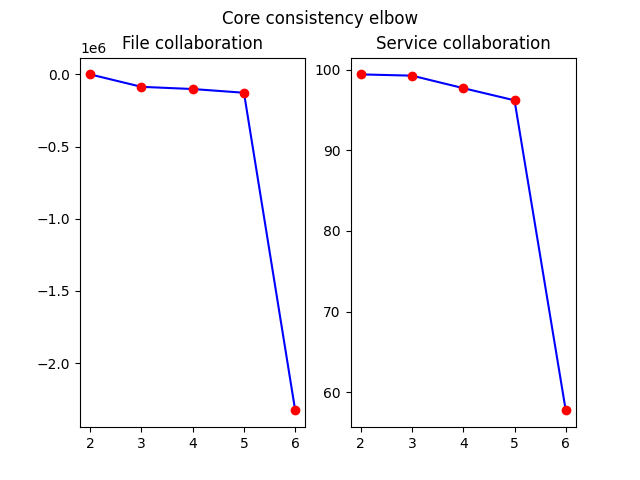
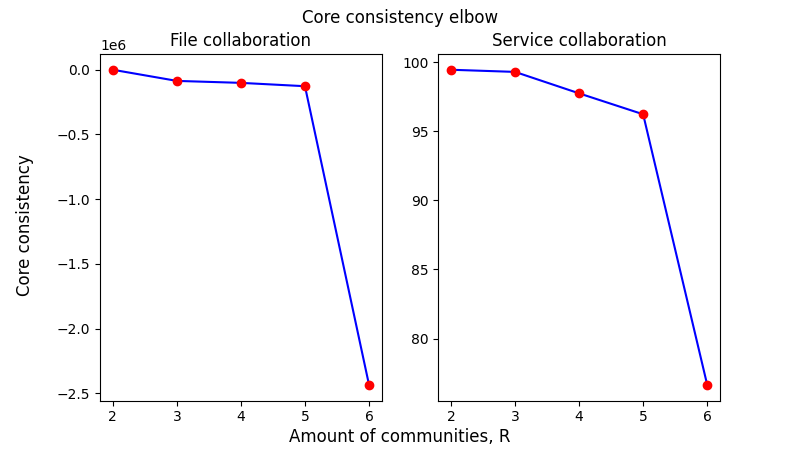
add: customize core consistency elbow

diff --git a/choice_of_R.py b/choice_of_R.py
@@ -28,7 +28,7 @@ with open(f"core_consistency_file_network_ncomm_max_{N_COMM_MAX}.json", 'w') as 
 with open(f"core_consistency_service_network_ncomm_max_{N_COMM_MAX}.json", 'w') as f:
     json.dump(cc_service_net, f)
 
-plt.figure()
+fig, axes = plt.subplots(1,2, sharex=True, figsize=(8,4.5))
 plt.subplot(121)
 plt.plot(cc_file_net.keys(), cc_file_net.values(), 'b-')
 plt.plot(cc_file_net.keys(), cc_file_net.values(), 'ro')
@@ -38,5 +38,7 @@ plt.plot(cc_service_net.keys(), cc_service_net.values(), 'b-')
 plt.plot(cc_service_net.keys(), cc_service_net.values(), 'ro')
 plt.title('Service collaboration')
 plt.suptitle("Core consistency elbow")
+fig.supxlabel("Amount of communities, R")
+fig.supylabel("Core consistency")
 plt.savefig('cc_elbow.png')
 plt.show()
